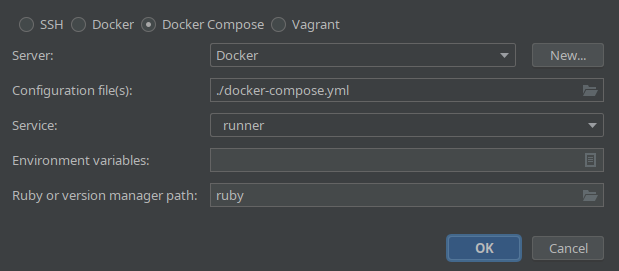
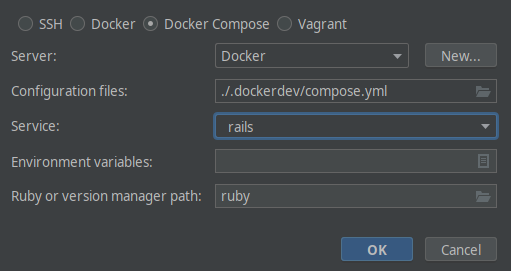
[TASK] Update the Docker documentations to match the new setup (#238)
The docker-compose configuration file has moved, and the base container
now has a different name.

diff --git a/README.md b/README.md
@@ -35,9 +35,10 @@ Create a new remote Ruby SDK in the settings and set is as the default.
 
 ![Languages & Frameworks > Ruby SDK and Gems > Select Interpreter Path > New remote…](doc/images/rubymine-new-remote-sdk.png)
 
-In the following dialog, select "Docker Compose" in the service "runner":
+In the following dialog, select "Docker Compose" with the configuration file
+`./.dockerdev/compose.yml` in the service `rails`:
 
-![Docker Compose, Configuration file(s): ./docker-compose.yml, Service: runner](doc/images/rubymine-sdk-details.png)
+![Docker Compose, Configuration file(s): ./.dockerdev/compose.yml, Service: rails](doc/images/rubymine-sdk-details.png)
 
 After that, you can set up the Ruby Docker integration:
 
